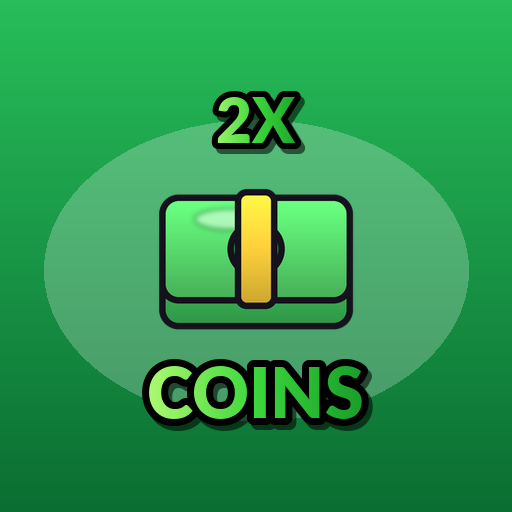
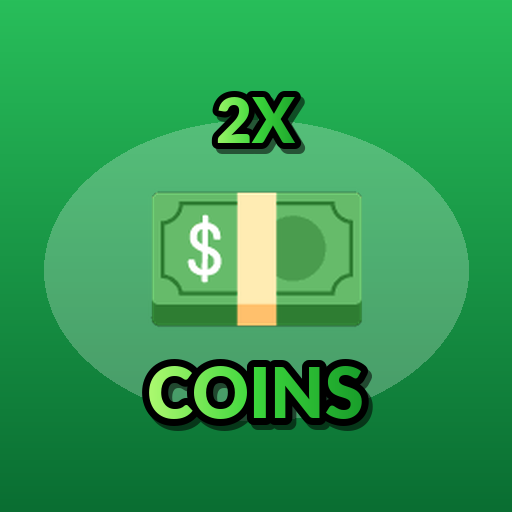
feat: gamepass, product and badge art from professional emoji artwork; a clean Index book
Marco: the gamepass and badge images were AI slop; use the art that works in the HUD now.
- art/ui/emoji_art.py loads Google's Noto Color Emoji art (Apache 2.0). make_passes.py and
  make_badges.py use it: cash, clover, sneaker, egg, crown, snail, hatching chick for the passes
  and products (the Trap Master shows the Blender-rendered trap; the limited eggs keep their meme
  pets), and wave, egg, chick, house, lightning, star, book, runner, cloud, trap for the badges.
- The Index icon is a white closed book with a black outline and spine (the open book read as a
  blob); the white style keeps the artwork's edges as black lines.
- Uploaded: the Shop's pass pictures (Config.ShopArt), the book (Config.Icons), and the images of
  all 7 passes, 5 products and 10 badges on Creator Hub (free).

Changed region(s): [[0.2812, 0.3438, 0.7188, 0.6562]]

diff --git a/art/ui/make_passes.py b/art/ui/make_passes.py
@@ -11,6 +11,9 @@ ROOT = pathlib.Path(__file__).resolve().parents[2]
 sys.path.insert(0, str(ROOT / "brand"))
 from make_thumb_lib import FONT, MONEY, RAINBOW, gradient  # noqa: E402
 
+sys.path.insert(0, str(ROOT / "art" / "ui"))
+from emoji_art import emoji  # noqa: E402
+
 OUT = ROOT / "brand" / "passes"
 SIZE = 512
 SAFE = 44  # nothing is drawn closer than this to an edge
@@ -26,15 +29,15 @@ def chord(centre_y: int, height: int) -> int:
 
 # key: (picture, top line, bottom line, background top/bottom colours, text colours)
 ICONS = {
-    "coins2x": ("Cartoon/cash", "2X", "COINS", ((40, 190, 90), (10, 110, 50)), MONEY),
-    "luck2x": ("Cartoon/potion", "2X", "LUCK", ((150, 80, 255), (70, 20, 150)), RAINBOW),
-    "train2x": ("Cartoon/shoe", "2X", "TRAINING", ((255, 150, 30), (200, 60, 20)), RAINBOW),
-    "fastHatch": ("Cartoon/egg", "2X", "HATCH SPEED", ((255, 90, 170), (170, 20, 100)), RAINBOW),
-    "vip": ("Cartoon/trophy", "VIP", "+25% COINS", ((255, 205, 40), (200, 120, 10)), MONEY),
-    "trapMaster": ("Cartoon/trap", "TRAP", "MASTER", ((90, 110, 140), (30, 40, 70)), RAINBOW),
-    "bossSlow": ("Pets/FinalBossHamster", "SLOW", "BOSSES", ((235, 40, 60), (120, 10, 30)), RAINBOW),
-    "hatch1": ("Cartoon/egg", "HATCH", "NOW!", ((255, 90, 170), (170, 20, 100)), RAINBOW),
-    "hatch5": ("Cartoon/egg", "5X", "HATCH", ((255, 90, 170), (170, 20, 100)), RAINBOW),
+    "coins2x": ("emoji:\U0001F4B5", "2X", "COINS", ((40, 190, 90), (10, 110, 50)), MONEY),
+    "luck2x": ("emoji:\U0001F340", "2X", "LUCK", ((150, 80, 255), (70, 20, 150)), RAINBOW),
+    "train2x": ("emoji:\U0001F45F", "2X", "TRAINING", ((255, 150, 30), (200, 60, 20)), RAINBOW),
+    "fastHatch": ("emoji:\U0001F95A", "2X", "HATCH SPEED", ((255, 90, 170), (170, 20, 100)), RAINBOW),
+    "vip": ("emoji:\U0001F451", "VIP", "+25% COINS", ((255, 205, 40), (200, 120, 10)), MONEY),
+    "trapMaster": ("item:trap", "TRAP", "MASTER", ((90, 110, 140), (30, 40, 70)), RAINBOW),
+    "bossSlow": ("emoji:\U0001F40C", "SLOW", "BOSSES", ((235, 40, 60), (120, 10, 30)), RAINBOW),
+    "hatch1": ("emoji:\U0001F423", "HATCH", "NOW!", ((255, 90, 170), (170, 20, 100)), RAINBOW),
+    "hatch5": ("emoji:\U0001F95A", "5X", "HATCH", ((255, 90, 170), (170, 20, 100)), RAINBOW),
     "limitedGoose": ("Pets/GoldenGoose", "LIMITED", "GOOSE", ((255, 205, 40), (200, 120, 10)), RAINBOW),
     "limitedCat": ("Pets/CosmicKitten", "LIMITED", "CAT", ((90, 80, 255), (30, 20, 140)), RAINBOW),
     "limitedLord": ("Pets/MemeLordPrime", "LIMITED", "LORD", ((235, 40, 60), (120, 10, 30)), RAINBOW),
@@ -63,6 +66,21 @@ def fit_text(img: Image.Image, text: str, centre_y: int, max_height: int, stops,
     img.alpha_composite(layer, ((SIZE - layer.width) // 2, centre_y - layer.height // 2))
 
 
+def picture(art: str) -> Image.Image:
+    """emoji:<char> = Google's Noto emoji art; item:<name> = the Blender-rendered item; else a sticker from art/ui. Square."""
+    if art.startswith("emoji:"):
+        im = emoji(art[6:])
+    elif art.startswith("item:"):
+        im = Image.open(ROOT / "art" / "items" / "icons" / f"{art[5:]}.png").convert("RGBA")
+        im = im.crop(im.getbbox())
+    else:
+        return Image.open(ROOT / "art" / "ui" / f"{art}.png").convert("RGBA")
+    side = int(max(im.size) * 1.12)
+    sq = Image.new("RGBA", (side, side), (0, 0, 0, 0))
+    sq.alpha_composite(im, ((side - im.width) // 2, (side - im.height) // 2))
+    return sq
+
+
 def make(key: str):
     art, top, bottom, (c1, c2), stops = ICONS[key]
     img = gradient((SIZE, SIZE), [c1, c2]).convert("RGBA")
@@ -70,7 +88,7 @@ def make(key: str):
     glow = Image.new("RGBA", (SIZE, SIZE), (0, 0, 0, 0))
     ImageDraw.Draw(glow).ellipse((SAFE, 120, SIZE - SAFE, 420), fill=(255, 255, 255, 60))
     img.alpha_composite(glow)
-    sticker = Image.open(ROOT / "art" / "ui" / f"{art}.png").convert("RGBA")
+    sticker = picture(art)
     h = 236
     sticker = sticker.resize((h, h), Image.LANCZOS)
     img.alpha_composite(sticker, ((SIZE - h) // 2, (SIZE - h) // 2 + 4))

diff --git a/art/ui/make_badges.py b/art/ui/make_badges.py
@@ -4,22 +4,27 @@ import pathlib
 
 from PIL import Image, ImageDraw, ImageFilter
 
+import sys
+
+sys.path.insert(0, str(pathlib.Path(__file__).resolve().parent))
+from emoji_art import emoji  # noqa: E402
+
 ROOT = pathlib.Path(__file__).resolve().parents[2]
 OUT = ROOT / "brand" / "badges"
 SIZE = 512
 
 # key: (sticker, disc top colour, disc bottom colour)
 BADGES = {
-    "welcome": ("Cartoon/egg", (80, 210, 120), (20, 130, 70)),
-    "firstSteal": ("Pets/SoggyToast", (255, 170, 60), (200, 90, 20)),
-    "firstHatch": ("Eggs/Golden", (255, 120, 190), (170, 30, 110)),
-    "homeSafe": ("Cartoon/cart", (90, 170, 255), (30, 80, 190)),
-    "speedDemon": ("Cartoon/shoe", (255, 90, 80), (170, 20, 40)),
-    "reborn": ("Pets/TaxAngel", (255, 215, 70), (210, 140, 10)),
-    "collector": ("Cartoon/book", (110, 140, 255), (50, 50, 170)),
-    "bossEscape": ("Pets/FinalBossHamster", (230, 60, 70), (110, 10, 30)),
-    "deepDiver": ("Pets/ZeusZucchini", (140, 210, 255), (60, 120, 220)),
-    "trapSpringer": ("Cartoon/trap", (150, 160, 190), (60, 70, 100)),
+    "welcome": ("emoji:\U0001F44B", (80, 210, 120), (20, 130, 70)),
+    "firstSteal": ("emoji:\U0001F95A", (255, 170, 60), (200, 90, 20)),
+    "firstHatch": ("emoji:\U0001F423", (255, 120, 190), (170, 30, 110)),
+    "homeSafe": ("emoji:\U0001F3E0", (90, 170, 255), (30, 80, 190)),
+    "speedDemon": ("emoji:⚡", (255, 90, 80), (170, 20, 40)),
+    "reborn": ("emoji:\U0001F31F", (255, 215, 70), (210, 140, 10)),
+    "collector": ("emoji:\U0001F4D6", (110, 140, 255), (50, 50, 170)),
+    "bossEscape": ("emoji:\U0001F3C3", (230, 60, 70), (110, 10, 30)),
+    "deepDiver": ("emoji:☁", (140, 210, 255), (60, 120, 220)),
+    "trapSpringer": ("item:trap", (150, 160, 190), (60, 70, 100)),
 }
 
 
@@ -46,11 +51,24 @@ def disc(top, bottom) -> Image.Image:
     return img
 
 
+def picture(art: str) -> Image.Image:
+    """emoji:<char> = Google's Noto emoji art (Apache 2.0); item:<name> = the Blender-rendered item. Square, centred."""
+    if art.startswith("emoji:"):
+        im = emoji(art[6:])
+    else:
+        im = Image.open(ROOT / "art" / "items" / "icons" / f"{art[5:]}.png").convert("RGBA")
+        im = im.crop(im.getbbox())
+    side = int(max(im.size) * 1.1)
+    sq = Image.new("RGBA", (side, side), (0, 0, 0, 0))
+    sq.alpha_composite(im, ((side - im.width) // 2, (side - im.height) // 2))
+    return sq
+
+
 def make(key: str):
     art, top, bottom = BADGES[key]
     img = disc(top, bottom)
-    sticker = Image.open(ROOT / "art" / "ui" / f"{art}.png").convert("RGBA").resize((330, 330), Image.LANCZOS)
-    img.alpha_composite(sticker, ((SIZE - 330) // 2, (SIZE - 330) // 2 + 6))
+    sticker = picture(art).resize((300, 300), Image.LANCZOS)
+    img.alpha_composite(sticker, ((SIZE - 300) // 2, (SIZE - 300) // 2 + 6))
     OUT.mkdir(parents=True, exist_ok=True)
     img.save(OUT / f"{key}.png")
 

diff --git a/art/ui/emoji_icons.py b/art/ui/emoji_icons.py
@@ -19,7 +19,7 @@ ICONS = {
     "clock": ("⏰", "color"),
     "potion": ("\U0001F9EA", "color"),
     "cart": ("\U0001F6D2", "white"),
-    "book": ("\U0001F4D6", "white"),
+    "book": ("\U0001F4D8", "whiteEdges"),  # a closed book, like the reference (the open one read as a blob)
 }
 
 
@@ -63,15 +63,22 @@ def make(name: str, ch: str, style: str):
     ring = outline(hard, 9).filter(ImageFilter.GaussianBlur(1))
     black = Image.new("RGBA", (256, 256), (16, 14, 22, 255))
     canvas.paste(black, (0, 0), ring)
-    if style == "white":
-        # white like the reference's cart and book, but the artwork's own dark lines stay as black detail inside it
+    if style in ("white", "whiteEdges"):
+        # white like the reference's cart and book; the artwork's detail stays as black lines inside it: its dark lines (cart)
+        # or, for a dark-covered book, only its edges (spine, pages)
         placed = Image.new("RGBA", (256, 256), (0, 0, 0, 0))
         placed.alpha_composite(art, at)
         gray = placed.convert("L")
-        detail = gray.point(lambda v: 255 if v < 120 else 0)
+        if style == "white":
+            detail = gray.point(lambda v: 255 if v < 120 else 0)
+            inner = alpha
+        else:
+            soft = gray.filter(ImageFilter.GaussianBlur(1.2))
+            detail = soft.filter(ImageFilter.FIND_EDGES).point(lambda v: 255 if v > 40 else 0).filter(ImageFilter.MaxFilter(3))
+            inner = alpha.filter(ImageFilter.MinFilter(13))
         white = Image.new("RGBA", (256, 256), (255, 255, 255, 255))
         canvas.paste(white, (0, 0), alpha.filter(ImageFilter.GaussianBlur(0.6)))
-        canvas.paste(black, (0, 0), Image.composite(detail, Image.new("L", (256, 256), 0), alpha))
+        canvas.paste(black, (0, 0), Image.composite(detail, Image.new("L", (256, 256), 0), inner))
     else:
         canvas.alpha_composite(art, at)
     OUT.mkdir(parents=True, exist_ok=True)

diff --git a/art/ui/emoji_art.py b/art/ui/emoji_art.py
@@ -1,0 +1,12 @@
+"""Loads one Noto Color Emoji picture (Google, Apache 2.0) as a cropped RGBA image, so the HUD, gamepass and badge art all use
+the same professional artwork. Usage: from emoji_art import emoji; img = emoji("\\U0001F340")"""
+from PIL import Image, ImageDraw, ImageFont
+
+FONT = "/usr/share/fonts/truetype/noto/NotoColorEmoji.ttf"
+
+
+def emoji(ch: str) -> Image.Image:
+    font = ImageFont.truetype(FONT, 109)  # the bitmap emoji font only has this size
+    im = Image.new("RGBA", (160, 160), (0, 0, 0, 0))
+    ImageDraw.Draw(im).text((80, 80), ch, font=font, embedded_color=True, anchor="mm")
+    return im.crop(im.getbbox())

diff --git a/art/items/compose.py b/art/items/compose.py
@@ -26,6 +26,7 @@ def square(path: pathlib.Path) -> Image.Image:
 
 square(src / "bat.png").save(OUT / "bat.png")
 trap = square(src / "trap.png")
+trap.save(OUT / "trap.png")  # plain, for the Trap Master pass art
 for n in range(1, 7):
     im = trap.copy()
     d = ImageDraw.Draw(im)
